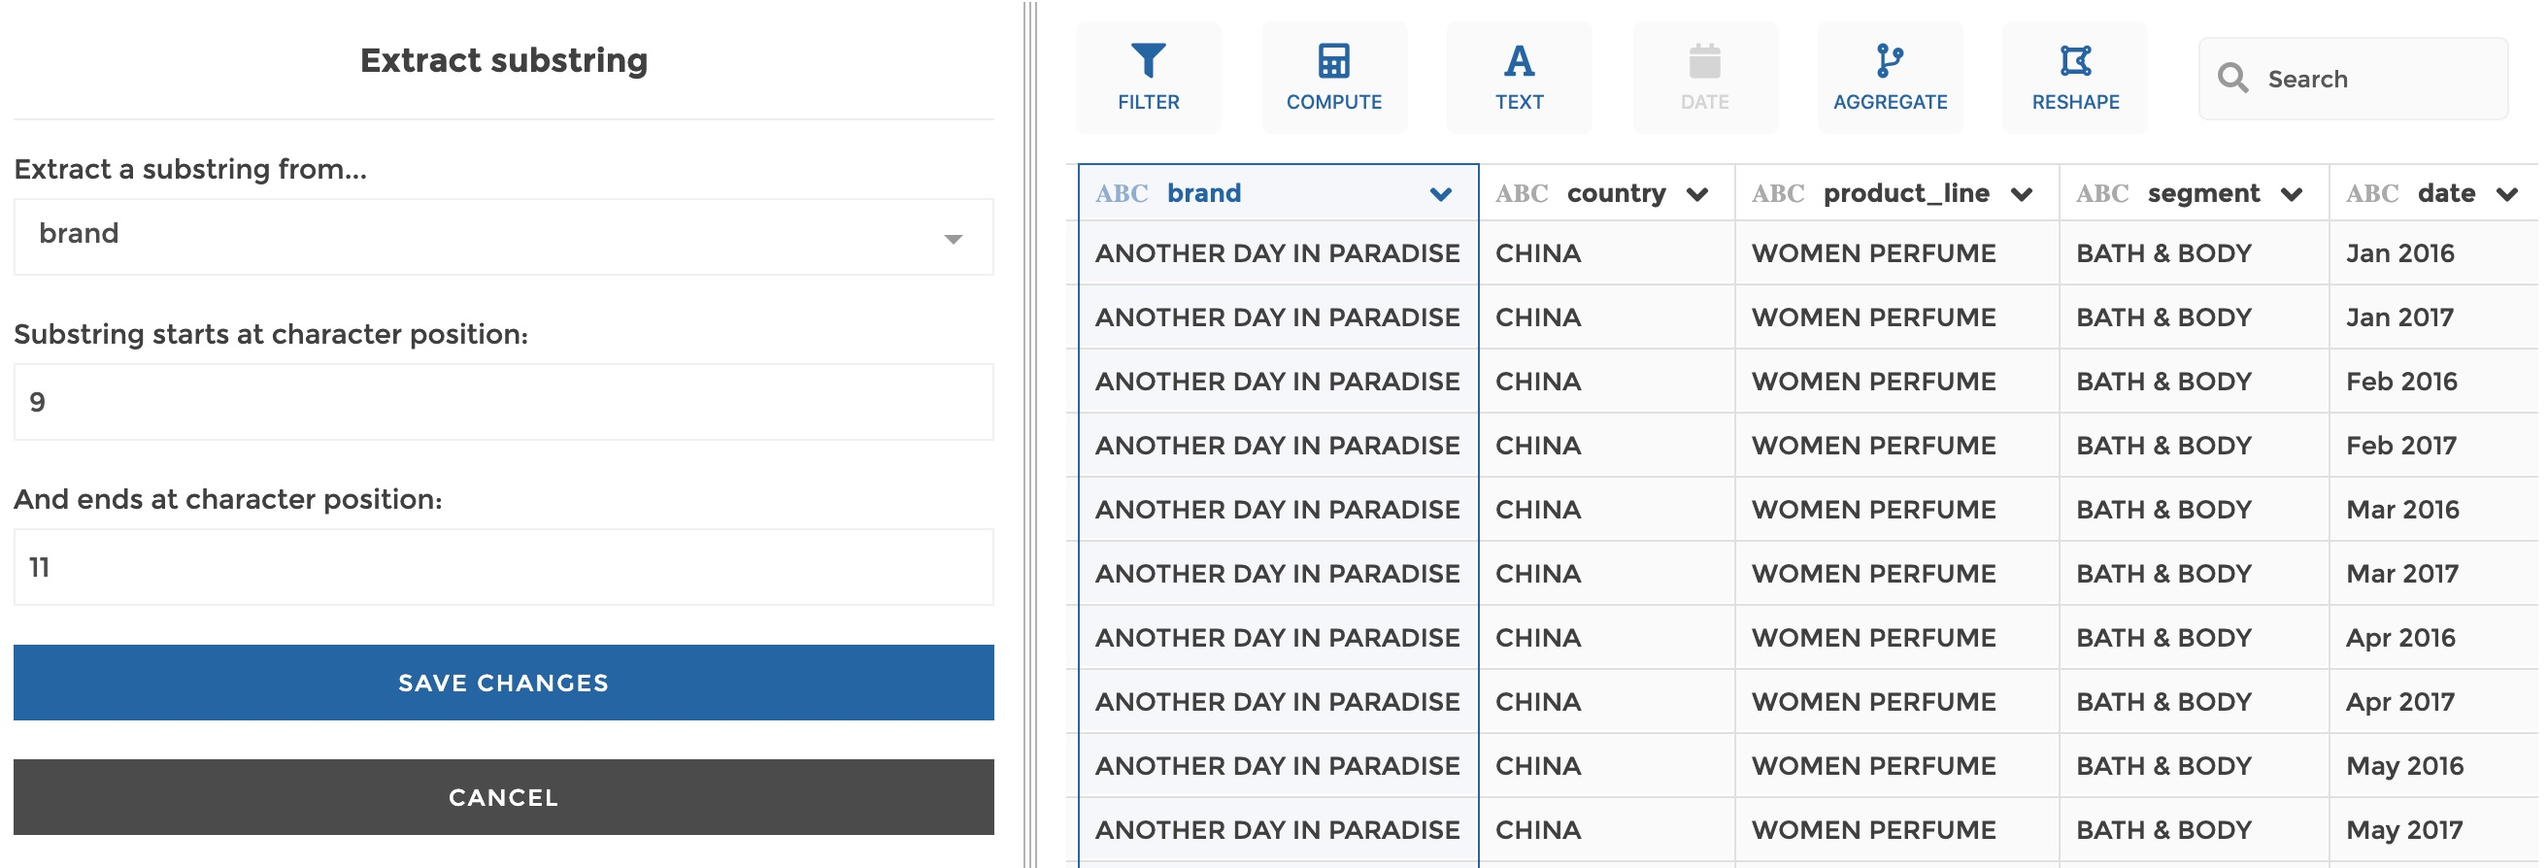
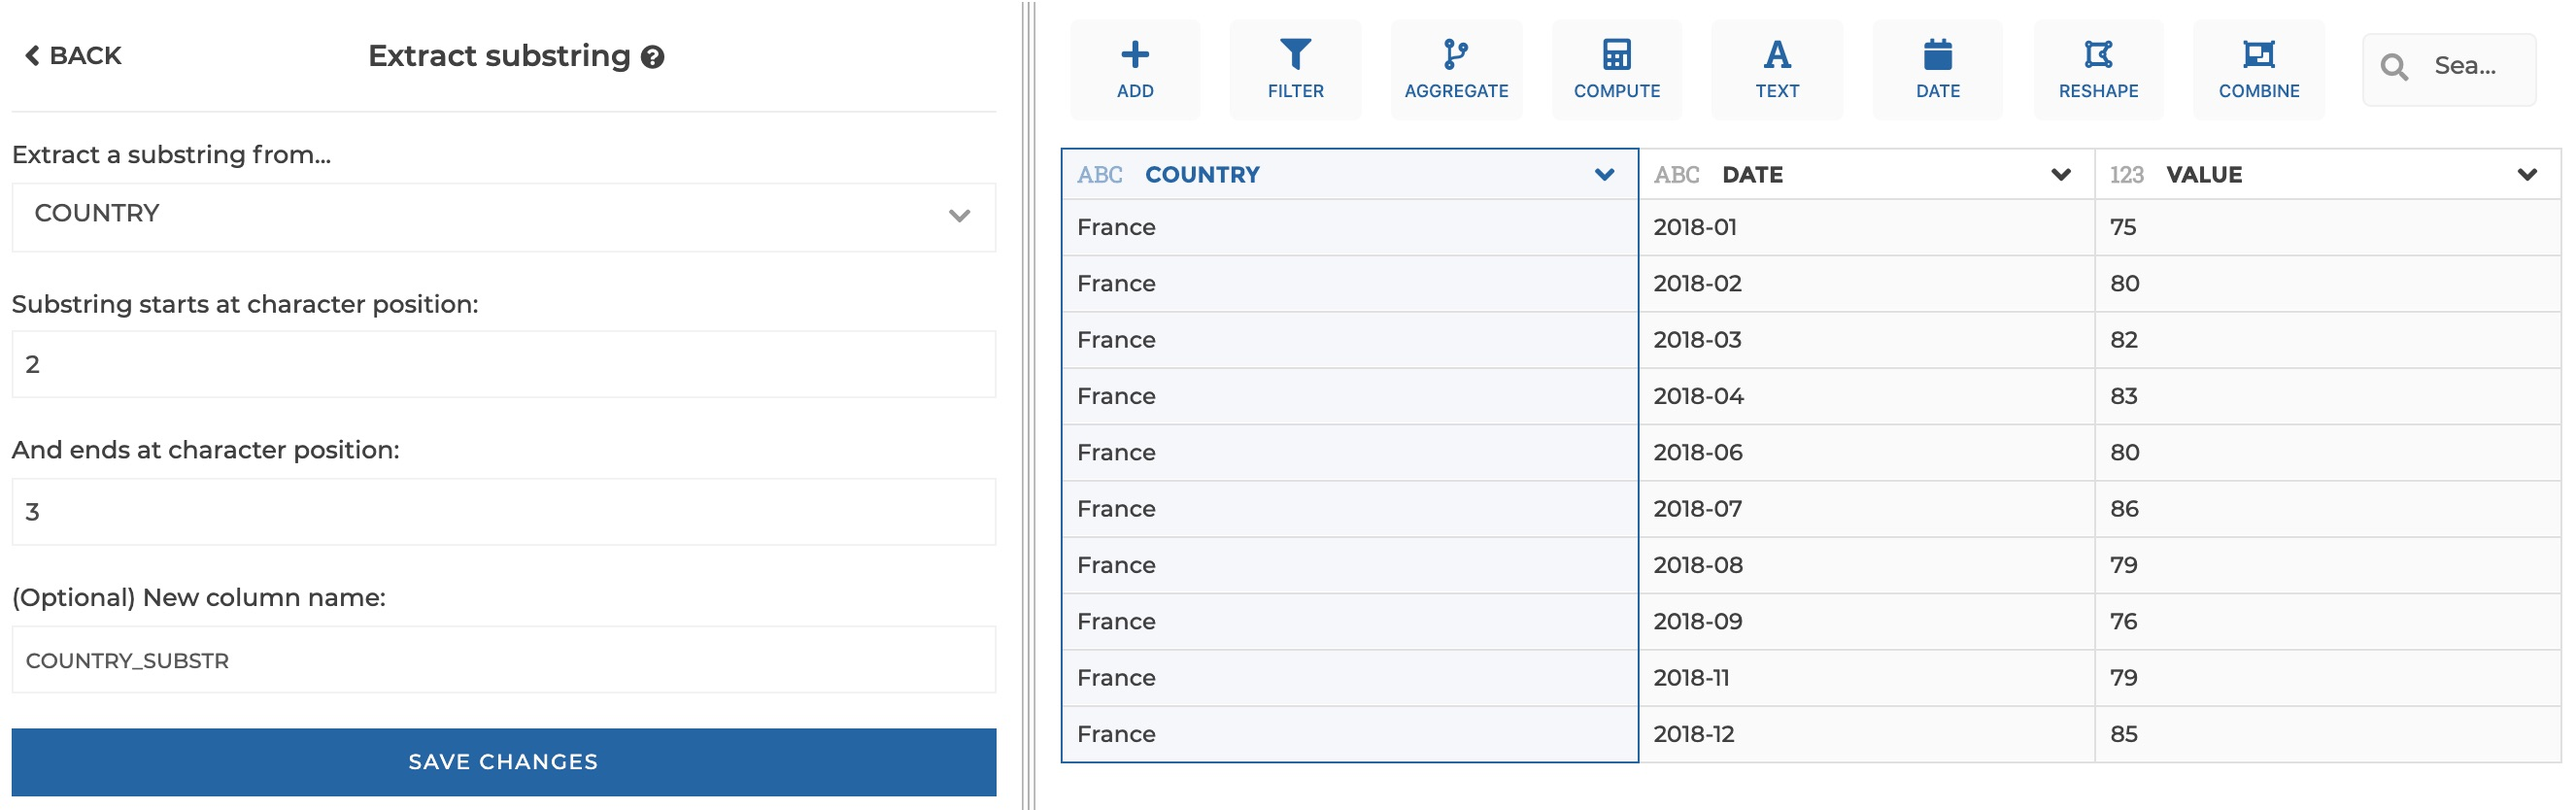
substring step :: write result in new column

diff --git a/tests/unit/mongo.spec.ts b/tests/unit/mongo.spec.ts
@@ -1321,7 +1321,7 @@ describe('Pipeline to mongo translator', () => {
     expect(querySteps).toEqual([
       {
         $addFields: {
-          foo: {
+          foo_SUBSTR: {
             $substrCP: [
               '$foo',
               0,
@@ -1341,20 +1341,6 @@ describe('Pipeline to mongo translator', () => {
     ]);
   });
 
-  it('can generate a todate step without format', () => {
-    const pipeline: Pipeline = [
-      {
-        name: 'todate',
-        column: 'foo',
-      },
-    ];
-    const querySteps = mongo36translator.translate(pipeline);
-    expect(querySteps).toEqual([
-      { $addFields: { foo: { $dateFromString: { dateString: '$foo' } } } },
-      { $project: { _id: 0 } },
-    ]);
-  });
-
   it('can generate a substring step with negative start and end index', () => {
     const pipeline: Pipeline = [
       {
@@ -1362,13 +1348,14 @@ describe('Pipeline to mongo translator', () => {
         column: 'foo',
         start_index: -5,
         end_index: -1,
+        newColumnName: 'bar',
       },
     ];
     const querySteps = mongo36translator.translate(pipeline);
     expect(querySteps).toEqual([
       {
         $addFields: {
-          foo: {
+          bar: {
             $substrCP: [
               '$foo',
               {
@@ -1408,6 +1395,20 @@ describe('Pipeline to mongo translator', () => {
           },
         },
       },
+      { $project: { _id: 0 } },
+    ]);
+  });
+
+  it('can generate a todate step without format', () => {
+    const pipeline: Pipeline = [
+      {
+        name: 'todate',
+        column: 'foo',
+      },
+    ];
+    const querySteps = mongo36translator.translate(pipeline);
+    expect(querySteps).toEqual([
+      { $addFields: { foo: { $dateFromString: { dateString: '$foo' } } } },
       { $project: { _id: 0 } },
     ]);
   });

diff --git a/tests/unit/substring-step-form.spec.ts b/tests/unit/substring-step-form.spec.ts
@@ -1,18 +1,37 @@
 import SubstringStepForm from '@/components/stepforms/SubstringStepForm.vue';
 
-import { BasicStepFormTestRunner } from './utils';
+import { BasicStepFormTestRunner, setupMockStore } from './utils';
 
 describe('Substring Step Form', () => {
   const runner = new BasicStepFormTestRunner(SubstringStepForm, 'substring');
   runner.testInstantiate();
   runner.testExpectedComponents({
     'columnpicker-stub': 1,
-    'inputtextwidget-stub': 2,
+    'inputtextwidget-stub': 3,
   });
   runner.testValidationErrors([
     {
       testlabel: 'submitted data is not valid',
       errors: [{ keyword: 'minLength', dataPath: '.column' }],
+    },
+    {
+      testlabel: 'existing column name',
+      store: setupMockStore({
+        dataset: {
+          headers: [{ name: 'bar' }],
+          data: [],
+        },
+      }),
+      data: {
+        editedStep: {
+          name: 'substring',
+          column: 'foo',
+          start_index: 1,
+          end_index: 3,
+          newColumnName: 'bar',
+        },
+      },
+      errors: [{ keyword: 'columnNameAlreadyUsed', dataPath: '.newColumnName' }],
     },
   ]);
 

diff --git a/src/components/stepforms/schemas/substring.ts b/src/components/stepforms/schemas/substring.ts
@@ -1,4 +1,6 @@
-export default {
+import { addNotInColumnNamesConstraint, StepFormType } from './utils';
+
+const schema = {
   $schema: 'http://json-schema.org/draft-07/schema#',
   title: 'Substring step',
   type: 'object',
@@ -34,7 +36,17 @@ export default {
       },
       not: { const: 0 },
     },
+    newColumnName: {
+      type: 'string',
+      minLength: 1,
+      title: 'New column name',
+      description: 'The new column name to be created for the computation result',
+    },
   },
   required: ['column', 'start_index', 'end_index'],
   additionalProperties: false,
 };
+
+export default function buildSchema(form: StepFormType) {
+  return addNotInColumnNamesConstraint(schema, 'newColumnName', form.columnNames);
+}

diff --git a/src/lib/translators/mongo.ts b/src/lib/translators/mongo.ts
@@ -396,7 +396,7 @@ function transformSubstring(step: Readonly<S.SubstringStep>): MongoStep {
 
   const substrMongo = { $substrCP: [$$(step.column), posStartIndex, lengthToKeep] };
 
-  return { $addFields: { [step.column]: substrMongo } };
+  return { $addFields: { [step.newColumnName ?? `${step.column}_SUBSTR`]: substrMongo } };
 }
 
 /** transform an 'top' step into corresponding mongo steps */

diff --git a/src/components/stepforms/SubstringStepForm.vue b/src/components/stepforms/SubstringStepForm.vue
@@ -27,6 +27,14 @@
       data-path=".end_index"
       :errors="errors"
     />
+    <InputTextWidget
+      id="newColumnNameInput"
+      v-model="editedStep.newColumnName"
+      name="(Optional) New column name:"
+      :placeholder="`${editedStep.column}_SUBSTR`"
+      data-path=".newColumnName"
+      :errors="errors"
+    />
     <StepFormButtonbar />
   </div>
 </template>

diff --git a/src/lib/steps.ts b/src/lib/steps.ts
@@ -227,6 +227,7 @@ export type SubstringStep = {
   column: string;
   start_index: number;
   end_index: number;
+  newColumnName?: string;
 };
 
 export type ToDateStep = {

diff --git a/docs/_docs/tech/steps.md b/docs/_docs/tech/steps.md
@@ -1558,6 +1558,7 @@ Neither `start_index` nor `end_index` can be equal to 0.
   column: 'foo',
   start_index: 1, // 1 = fisrt character
   end_index: -1, // -1 = last character
+  newColumName: 'myNewColumn' // optional, <originalColumame>_SUBSTR by default
 }
 ```
 
@@ -1590,14 +1591,14 @@ Neither `start_index` nor `end_index` can be equal to 0.
 }
 ```
 
-| Label | Value |
-| ----- | ----- |
-| foo   | 13    |
-| over  | 7     |
-| some  | 20    |
-| a_wo  | 1     |
-| touc  | 10    |
-| toco  | 5     |
+| Label     | Value | Label_PCT |
+| --------- | ----- | --------- |
+| foo       | 13    | foo       |
+| overflow  | 7     | over      |
+| some_text | 20    | some      |
+| a_word    | 1     | a_wo      |
+| toucan    | 10    | touc      |
+| toco      | 5     | toco      |
 
 #### Example 2: `start_index` is positive and `end_index` is negative
 
@@ -1620,19 +1621,20 @@ Neither `start_index` nor `end_index` can be equal to 0.
   column: 'Label',
   start_index: 2,
   end_index: -2,
+  newColumName: 'short_label',
 }
 ```
 
 **Output dataset:**
 
-| Label   | Value |
-| ------- | ----- |
-| o       | 13    |
-| verflo  | 7     |
-| ome_tex | 20    |
-| \_wor   | 1     |
-| ouca    | 10    |
-| oc      | 5     |
+| Label     | Value | short_label |
+| --------- | ----- | ----------- |
+| foo       | 13    | o           |
+| overflow  | 7     | verflo      |
+| some_text | 20    | ome_tex     |
+| a_word    | 1     | \_wor       |
+| toucan    | 10    | ouca        |
+| toco      | 5     | oc          |
 
 #### Example 3: `start_index` and `end_index` are negative
 
@@ -1660,14 +1662,14 @@ Neither `start_index` nor `end_index` can be equal to 0.
 
 **Output dataset:**
 
-| Label | Value |
-| ----- | ----- |
-| foo   | 13    |
-| low   | 7     |
-| ext   | 20    |
-| ord   | 1     |
-| can   | 10    |
-| oco   | 5     |
+| Label     | Value | Label_PCT |
+| --------- | ----- | --------- |
+| foo       | 13    | foo       |
+| overflow  | 7     | low       |
+| some_text | 20    | ext       |
+| a_word    | 1     | ord       |
+| toucan    | 10    | can       |
+| toco      | 5     | oco       |
 
 ### `text` step
 

diff --git a/docs/_docs/user-interface/substring.md b/docs/_docs/user-interface/substring.md
@@ -27,6 +27,9 @@ You can use this step to exctract a sustring of characters in a text column.
   of the sustring you want to extract.
 - `Substring ends at character position`: the position of the last character
   of the sustring you want to extract.
+- `New colum name:` (optional): if you want to give a custom name to the column
+  of results to be created. By default, it will be your original column name
+  suffixed by '\_SUBSTR'.
 
 The character positions are integers that can be either positive (starting at 1
 for the first character of the original string) or negative (starting at -1 for

diff --git a/CHANGELOG.md b/CHANGELOG.md
@@ -5,6 +5,7 @@
 ### Changed
 
 - Write percentage step result in a new column
+- Write substring step result in a new column
 
 ## [0.12.0] - 2020-02-26
 
